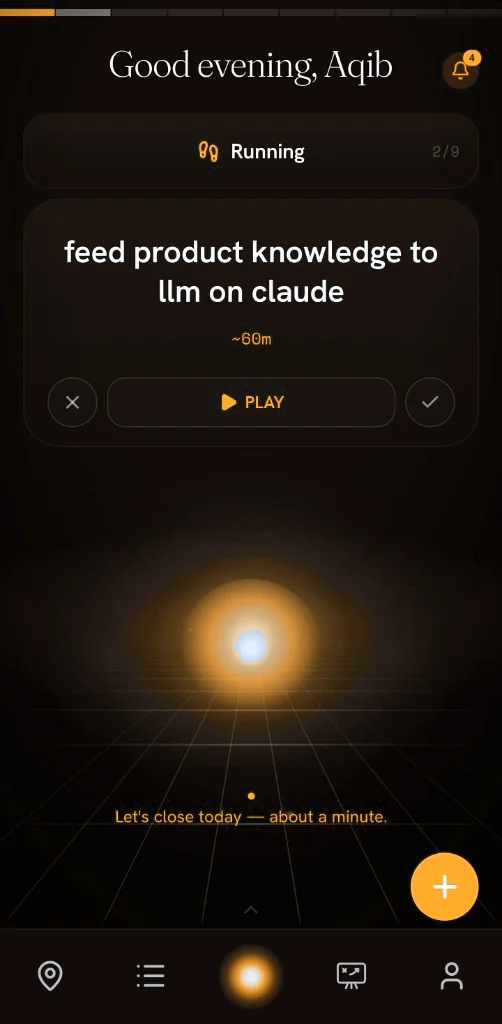
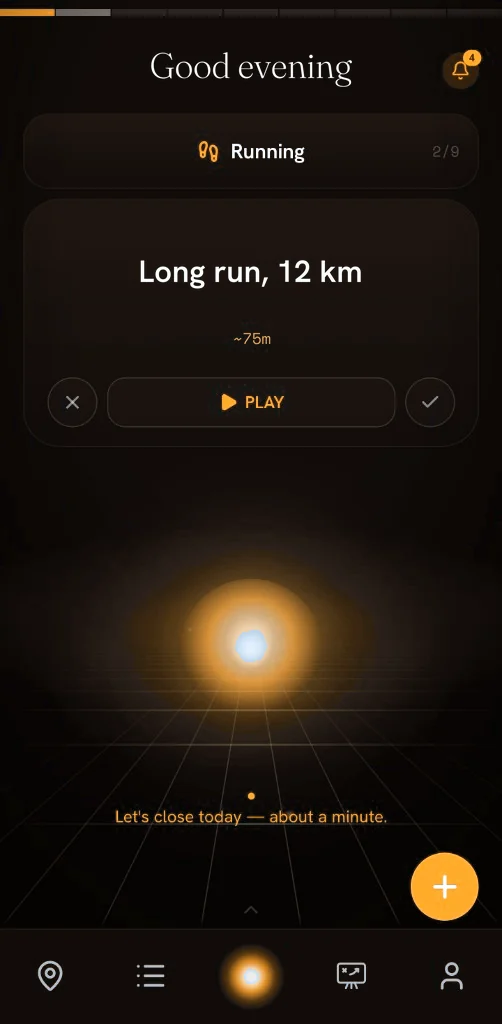
Show the road's sample life in the app screens, not a real one
The three captures came from a real phone: a name, an age, a work task
and live users/MRR/audience numbers. Those strings now carry the life
the road already tells - the long run, the shop, the runway, Spanish -
set in the app's own typefaces of the time (Fraunces, Hanken Grotesk,
Space Mono) by scripts/sample-life-screens.py, which documents where
each piece came from. Every goal keeps its ring's arc honest (30%, 20%
and 46%, as drawn).

'Early captures - still in build' contradicted the live store buttons
beside it; Light now hands over instead: 'This is that same life, in
the app.'

Changed region(s): [[0.1195, 0.2188, 0.8665, 0.3438], [0.2092, 0.0312, 0.7769, 0.0938]]

diff --git a/src/components/landing/v3/LookInside.tsx b/src/components/landing/v3/LookInside.tsx
@@ -1,8 +1,13 @@
 import "./look.css";
 
 /**
- * What it actually looks like - early captures from the app, framed in the
+ * What it actually looks like - real captures from the app, framed in the
  * same warm night as the rest of the page. Accents are amber to match the light.
+ *
+ * The life in them is the road's sample life (the long run, the shop, the
+ * runway, the Spanish), not anyone's own: scripts/sample-life-screens.py set
+ * it into the captures in the app's own typefaces. The road describes one
+ * life, so the screens show that same one.
  */
 
 const PANELS = [
@@ -10,7 +15,7 @@ const PANELS = [
     id: "now",
     src: "/look/now.webp",
     fallback: "/look/now.png",
-    alt: "Playlight home: one current focus, a play control, and the light on the floor.",
+    alt: "Playlight home: one current focus - a 12 km long run - with a play control and the light on the floor.",
     title: "Open it for ten seconds",
     body: "One lit thing, and everything else kept quiet behind it. You leave with a next move, not a backlog.",
   },
@@ -18,7 +23,7 @@ const PANELS = [
     id: "whole",
     src: "/look/whole.webp",
     fallback: "/look/whole.png",
-    alt: "Playlight life surface: active arc and five pillars scored side by side.",
+    alt: "Playlight player screen: the active arc, Launch Season, above five life pillars scored side by side.",
     title: "The whole life on one surface",
     body: "Work, health, money, people - held together, so a trade-off shows up before it turns into damage.",
   },
@@ -26,7 +31,7 @@ const PANELS = [
     id: "trail",
     src: "/look/trail.webp",
     fallback: "/look/trail.png",
-    alt: "Playlight Game Plan: goals, habits consistency, and systems at a glance.",
+    alt: "Playlight Game Plan: three goals - kilometres this week, a runway fund and Spanish lessons - above habit consistency.",
     title: "Your own evidence, on request",
     body: "What you did, what it cost, what it moved. Every insight can be asked why, and it answers with your history.",
   },
@@ -40,9 +45,9 @@ export function LookInside() {
         <h2 id="pl3-look-title" className="pl3-look__title">
           One surface, three ways in.
         </h2>
-        <p className="pl3-look__note">
-          Early captures from the app - still in build.
-        </p>
+        {/* Light's voice, the same as on the road: it hands over from the
+            sample life it just described to that life in the app. */}
+        <p className="pl3-look__say">This is that same life, in the app.</p>
       </header>
 
       <div className="pl3-look__row">

diff --git a/src/components/landing/v3/look.css b/src/components/landing/v3/look.css
@@ -17,8 +17,8 @@
 
 .pl3-look__eyebrow {
   font-family: var(--font-mono);
-  font-size: 9px;
-  letter-spacing: 0.3em;
+  font-size: 11px;
+  letter-spacing: 0.24em;
   text-transform: uppercase;
   color: var(--ember);
 }
@@ -33,10 +33,16 @@
   color: var(--filament);
 }
 
-.pl3-look__note {
-  margin-top: 12px;
-  font-size: 12.5px;
-  color: var(--ash-dim);
+/* Light speaking - the voice the road uses: Newsreader italic, warm. */
+.pl3-look__say {
+  margin-top: 14px;
+  font-family: "Newsreader", ui-serif, Georgia, serif;
+  font-style: italic;
+  font-weight: 300;
+  font-size: clamp(1.05rem, 1.6vw, 1.2rem);
+  line-height: 1.4;
+  color: var(--filament);
+  text-shadow: 0 0 22px oklch(0.78 0.14 var(--glow-hue) / 0.32);
 }
 
 .pl3-look__row {

diff --git a/scripts/sample-life-screens.py b/scripts/sample-life-screens.py
@@ -1,0 +1,303 @@
+"""Put the road's sample life into the three app screenshots on the homepage.
+
+The captures in public/look/ came from the founder's own phone, so they showed
+a real name, an age, a work task and live business numbers (users, MRR,
+audience). This script replaces exactly those strings with the sample life the
+homepage already tells - the night owl training for a half marathon, saving a
+six-month runway, learning Spanish - and leaves every other pixel alone. The
+road describes one life; the app screens now show that same life.
+
+How:
+  1. Each personal string is erased by interpolating the background across its
+     box (the cards are smooth gradients, so the seam does not show).
+  2. The replacement is set in the typeface the capture was drawn in - Fraunces,
+     Hanken Grotesk or Space Mono, the app's faces at the time - at the size
+     that reproduces the ORIGINAL string's measured width, on its baseline.
+
+Fonts: the app dropped these three families on 2026-10-25 (commit abaee71 in
+los_client), so take them from the commit before it:
+
+    git -C <los_client> show abaee71^:assets/fonts/<Name>.ttf > fonts/<Name>.ttf
+
+Usage:
+    python scripts/sample-life-screens.py <originals-dir> <fonts-dir> <out-dir>
+
+<originals-dir> holds now.png, whole.png and trail.png as they were before this
+script ever ran (git: `git show before-light-narrates:public/look/now.png`).
+Writes .png and .webp next to each other, the pair public/look/ serves.
+"""
+
+from __future__ import annotations
+
+import sys
+from pathlib import Path
+
+from PIL import Image, ImageDraw, ImageFont
+
+Box = tuple[int, int, int, int]
+
+
+def text_pixels(img: Image.Image, box: Box, kind: str):
+    """Pixels belonging to the glyphs in `box`: white text, or amber text."""
+    px = img.load()
+    x0, y0, x1, y1 = box
+    out = []
+    for y in range(y0, y1):
+        for x in range(x0, x1):
+            r, g, b = px[x, y][:3]
+            if kind == "white" and min(r, g, b) >= 120:
+                out.append((x, y, (r, g, b)))
+            elif kind == "grey" and min(r, g, b) >= 78 and max(r, g, b) - min(r, g, b) < 60:
+                out.append((x, y, (r, g, b)))
+            elif kind == "amber" and r >= 150 and r - b >= 90:
+                out.append((x, y, (r, g, b)))
+    return out
+
+
+def tight(img: Image.Image, box: Box, kind: str) -> Box:
+    pts = text_pixels(img, box, kind)
+    if not pts:
+        raise SystemExit(f"no {kind} text found in {box}")
+    xs = [p[0] for p in pts]
+    ys = [p[1] for p in pts]
+    return (min(xs), min(ys), max(xs) + 1, max(ys) + 1)
+
+
+def ink(img: Image.Image, box: Box, kind: str) -> tuple[int, int, int]:
+    """The glyphs' own colour: the brightest third of their pixels, averaged."""
+    pts = sorted(text_pixels(img, box, kind), key=lambda p: sum(p[2]), reverse=True)
+    top = pts[: max(1, len(pts) // 3)]
+    return tuple(round(sum(p[2][i] for p in top) / len(top)) for i in range(3))  # type: ignore[return-value]
+
+
+def erase(img: Image.Image, box: Box, mode: str = "h", pad: int = 2) -> None:
+    """Fill `box` by interpolating the background across it.
+
+    "h" reads the columns just outside the left and right edges, "v" the rows
+    just outside the top and bottom, "hv" averages the two. The pad keeps the
+    sampled edge clear of antialiasing.
+    """
+    px = img.load()
+    x0, y0, x1, y1 = box
+    x0, y0, x1, y1 = x0 - pad, y0 - pad, x1 + pad, y1 + pad
+
+    def avg(points):
+        cols = [px[x, y][:3] for x, y in points]
+        return [sum(c[i] for c in cols) / len(cols) for i in range(3)]
+
+    h: dict[tuple[int, int], list[float]] = {}
+    v: dict[tuple[int, int], list[float]] = {}
+    if "h" in mode:
+        for y in range(y0, y1):
+            left = avg([(x, y) for x in range(x0 - 3, x0)])
+            right = avg([(x, y) for x in range(x1, x1 + 3)])
+            for x in range(x0, x1):
+                t = (x - x0 + 0.5) / (x1 - x0)
+                h[(x, y)] = [left[i] * (1 - t) + right[i] * t for i in range(3)]
+    if "v" in mode:
+        for x in range(x0, x1):
+            top = avg([(x, y) for y in range(y0 - 3, y0)])
+            bottom = avg([(x, y) for y in range(y1, y1 + 3)])
+            for y in range(y0, y1):
+                t = (y - y0 + 0.5) / (y1 - y0)
+                v[(x, y)] = [top[i] * (1 - t) + bottom[i] * t for i in range(3)]
+    for y in range(y0, y1):
+        for x in range(x0, x1):
+            parts = [d[(x, y)] for d in (h, v) if (x, y) in d]
+            c = [sum(p[i] for p in parts) / len(parts) for i in range(3)]
+            px[x, y] = tuple(round(n) for n in c)
+
+
+def fit(font_path: Path, sample: str, width: float) -> float:
+    """The point size at which `sample` sets exactly `width` px wide."""
+    lo, hi = 4.0, 120.0
+    for _ in range(40):
+        mid = (lo + hi) / 2
+        f = ImageFont.truetype(str(font_path), mid)
+        x0, _, x1, _ = f.getbbox(sample, anchor="ls")
+        if x1 - x0 < width:
+            lo = mid
+        else:
+            hi = mid
+    return (lo + hi) / 2
+
+
+SCALE = 4  # set the type 4x up and bring it down, as the captures were
+
+
+def set_text(
+    img: Image.Image,
+    font_path: Path,
+    size: float,
+    text: str,
+    colour: tuple[int, int, int],
+    baseline: float,
+    *,
+    left: float | None = None,
+    centre: float | None = None,
+    stroke: int = 0,
+) -> None:
+    """Set `text` on `img`. `stroke` thickens the glyphs by that many
+    oversampled pixels - a quarter of a screen pixel each."""
+    layer = Image.new("RGBA", (img.width * SCALE, img.height * SCALE), (0, 0, 0, 0))
+    draw = ImageDraw.Draw(layer)
+    f = ImageFont.truetype(str(font_path), size * SCALE)
+    if centre is not None:
+        draw.text(
+            (centre * SCALE, baseline * SCALE), text, font=f, fill=colour + (255,), anchor="ms",
+            stroke_width=stroke, stroke_fill=colour + (255,),
+        )
+    else:
+        assert left is not None
+        # line up the ink, not the advance origin, with the original's left edge
+        ink_x0 = f.getbbox(text, anchor="ls")[0]
+        draw.text(
+            (left * SCALE - ink_x0, baseline * SCALE), text, font=f, fill=colour + (255,), anchor="ls"
+        )
+    layer = layer.resize(img.size, Image.Resampling.LANCZOS)
+    base = img.convert("RGBA")
+    base.alpha_composite(layer)
+    img.paste(base.convert("RGB"))
+
+
+def replace(
+    img: Image.Image,
+    region: Box,
+    kind: str,
+    font_path: Path,
+    old: str,
+    new: str,
+    *,
+    align: str,
+    mode: str = "h",
+    erase_box: Box | None = None,
+) -> None:
+    """Swap the string `old`, found inside `region`, for `new` - same face,
+    same size, same colour, same baseline."""
+    box = tight(img, region, kind)
+    colour = ink(img, box, kind)
+    size = fit(font_path, old, box[2] - box[0])
+    f = ImageFont.truetype(str(font_path), size)
+    descent = f.getbbox(old, anchor="ls")[3]
+    baseline = box[3] - descent
+    erase(img, erase_box or box, mode)
+    if align == "centre":
+        set_text(img, font_path, size, new, colour, baseline, centre=(box[0] + box[2]) / 2)
+    else:
+        set_text(img, font_path, size, new, colour, baseline, left=box[0])
+
+
+def main(src: Path, fonts: Path, out: Path) -> None:
+    fraunces_light = fonts / "Fraunces_72pt-Light.ttf"
+    fraunces = fonts / "Fraunces_72pt-Regular.ttf"
+    hanken = fonts / "HankenGrotesk-Regular.ttf"
+    hanken_semi = fonts / "HankenGrotesk-SemiBold.ttf"
+    mono = fonts / "SpaceMono-Regular.ttf"
+    out.mkdir(parents=True, exist_ok=True)
+
+    # ── Home: the one lit thing ──────────────────────────────────────
+    now = Image.open(src / "now.png").convert("RGB")
+    replace(now, (90, 40, 420, 95), "white", fraunces_light,
+            "Good evening, Aqib", "Good evening", align="centre")
+    # The task was two lines; the run is one, set on the block's middle.
+    task = tight(now, (40, 225, 462, 318), "white")
+    line1 = tight(now, (40, 225, 462, 272), "white")
+    colour = ink(now, task, "white")
+    size = fit(hanken_semi, "feed product knowledge to", line1[2] - line1[0])
+    f = ImageFont.truetype(str(hanken_semi), size)
+    cap = -f.getbbox("L", anchor="ls")[1]
+    erase(now, task, "hv", pad=3)
+    set_text(now, hanken_semi, size, "Long run, 12 km", colour,
+             (task[1] + task[3]) / 2 + cap / 2, centre=(task[0] + task[2]) / 2)
+    replace(now, (200, 325, 300, 352), "amber", mono, "~60m", "~75m", align="centre")
+
+    # ── Player: the whole life on one surface ────────────────────────
+    whole = Image.open(src / "whole.png").convert("RGB")
+    # The orb's glow reaches into the name's left edge, so look for the
+    # name's white only to the right of it.
+    # Horizontal fill only: the amber rule runs just under the name, and a
+    # vertical fill would drag it up into the gap.
+    replace(whole, (150, 90, 300, 138), "white", fraunces_light, "Aqib", "Alex", align="left")
+    replace(whole, (90, 176, 140, 198), "white", mono, "27.9", "26.2", align="left")
+    replace(whole, (50, 265, 300, 305), "white", fraunces, "Creator Phase", "Launch Season",
+            align="left")
+    replace(whole, (50, 308, 460, 334), "grey", hanken,
+            "Creating Product and content simultaneously.",
+            "Opening the shop. Training for the half.", align="left")
+
+    # ── Game Plan: your own evidence ─────────────────────────────────
+    trail = Image.open(src / "trail.png").convert("RGB")
+    # Each new goal keeps its ring's arc honest: 9/30, 1,200/6,000 and 23/50
+    # are the same 30%, 20% and 46% the arcs were drawn at.
+    rings = [
+        ((80, 278, 148, 322), "30", "9"),
+        ((206, 278, 296, 322), "200", "1,200"),
+        ((340, 278, 434, 322), "2,300", "23"),
+    ]
+    # The app sizes a ring's number by how many characters it has: "30" and
+    # "200" are set large, "2,300" smaller to fit. So each new number takes
+    # the size the app gave the original of its own length.
+    measured = {}
+    for region, old, _ in rings:
+        box = tight(trail, region, "white")
+        measured[old] = (box, fit(mono, old, box[2] - box[0]))
+    size_for = {"9": measured["30"][1], "23": measured["30"][1], "1,200": measured["2,300"][1]}
+    for region, old, new in rings:
+        box, old_size = measured[old]
+        colour = ink(trail, box, "white")
+        f_old = ImageFont.truetype(str(mono), old_size)
+        f_new = ImageFont.truetype(str(mono), size_for[new])
+        baseline_old = box[3] - f_old.getbbox(old, anchor="ls")[3]
+        # keep the digits' middle where the old digits' middle was
+        cap_old = -f_old.getbbox("0", anchor="ls")[1]
+        cap_new = -f_new.getbbox("0", anchor="ls")[1]
+        baseline = baseline_old - cap_old / 2 + cap_new / 2
+        erase(trail, box, "hv", pad=3)
+        # The captured digits went through two resamples and a sharpen on
+        # their way here, which thickened them; a quarter-pixel stroke matches.
+        set_text(trail, mono, size_for[new], new, colour, baseline,
+                 centre=(box[0] + box[2]) / 2, stroke=1)
+
+    labels = [
+        ((60, 364, 170, 392), "App Users", "Km this week"),
+        ((200, 364, 300, 392), "MRR", "Runway fund"),
+        ((330, 364, 450, 392), "Audience", "Spanish"),
+    ]
+    label_box = tight(trail, labels[2][0], "white")
+    label_size = fit(hanken_semi, "Audience", label_box[2] - label_box[0])
+    for region, old, new in labels:
+        box = tight(trail, region, "white")
+        colour = ink(trail, box, "white")
+        f = ImageFont.truetype(str(hanken_semi), label_size)
+        baseline = box[3] - f.getbbox(old, anchor="ls")[3]
+        centre = (box[0] + box[2]) / 2
+        # the new labels are wider than the old: clear the whole column
+        erase(trail, (int(centre - 58), box[1], int(centre + 58), box[3]), "h", pad=2)
+        set_text(trail, hanken_semi, label_size, new, colour, baseline, centre=centre)
+
+    subs = [
+        ((60, 393, 170, 414), "30 of 100", "9 of 30"),
+        ((190, 393, 312, 414), "200 of 1,000", "1,200 of 6,000"),
+        ((322, 393, 456, 414), "2,300 of 5,000", "23 of 50"),
+    ]
+    sub_box = tight(trail, subs[2][0], "grey")
+    sub_size = fit(hanken, "2,300 of 5,000", sub_box[2] - sub_box[0])
+    for region, old, new in subs:
+        box = tight(trail, region, "grey")
+        colour = ink(trail, box, "grey")
+        f = ImageFont.truetype(str(hanken), sub_size)
+        baseline = box[3] - f.getbbox(old, anchor="ls")[3]
+        centre = (box[0] + box[2]) / 2
+        erase(trail, (int(centre - 60), box[1], int(centre + 60), box[3]), "h", pad=2)
+        set_text(trail, hanken, sub_size, new, colour, baseline, centre=centre)
+
+    for name, im in (("now", now), ("whole", whole), ("trail", trail)):
+        im.save(out / f"{name}.png", "PNG", optimize=True)
+        im.save(out / f"{name}.webp", "WEBP", quality=86, method=6)
+        print("wrote", out / f"{name}.png")
+
+
+if __name__ == "__main__":
+    if len(sys.argv) != 4:
+        raise SystemExit(__doc__)
+    main(Path(sys.argv[1]), Path(sys.argv[2]), Path(sys.argv[3]))
